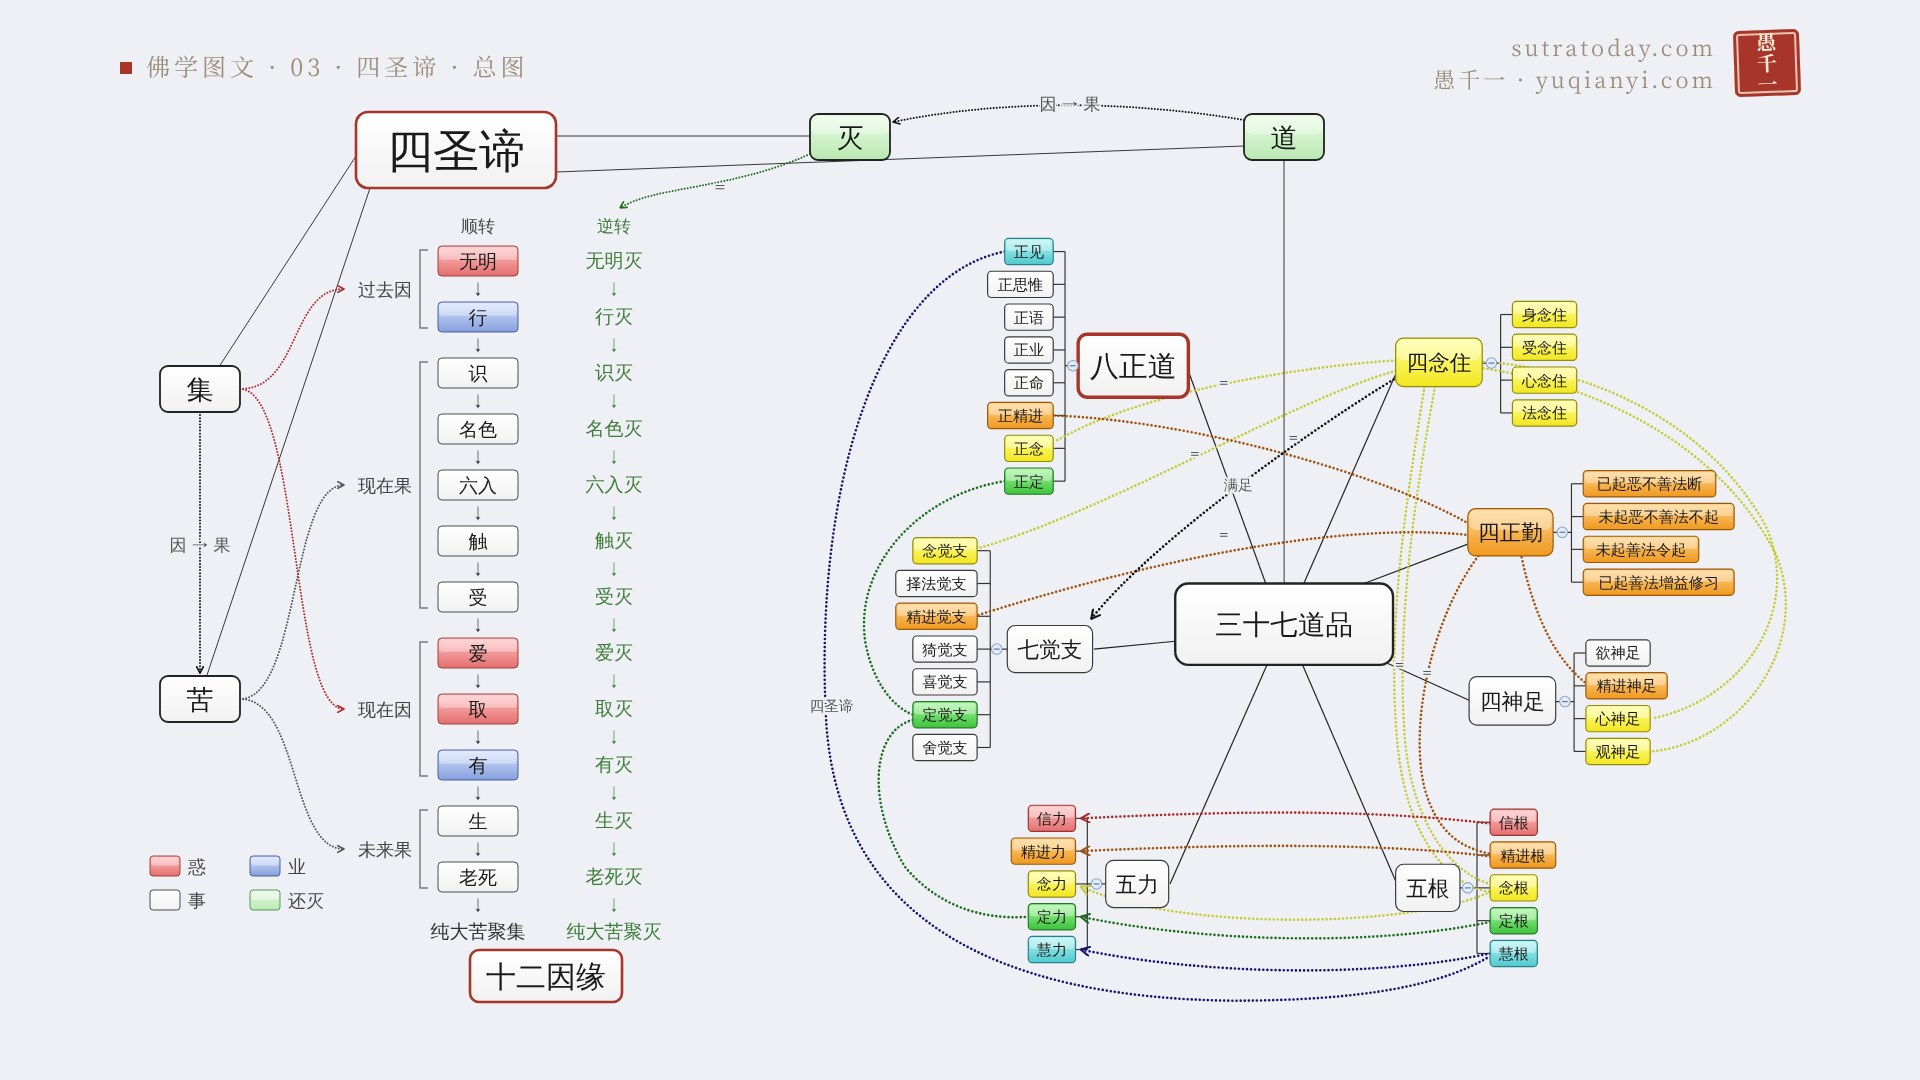
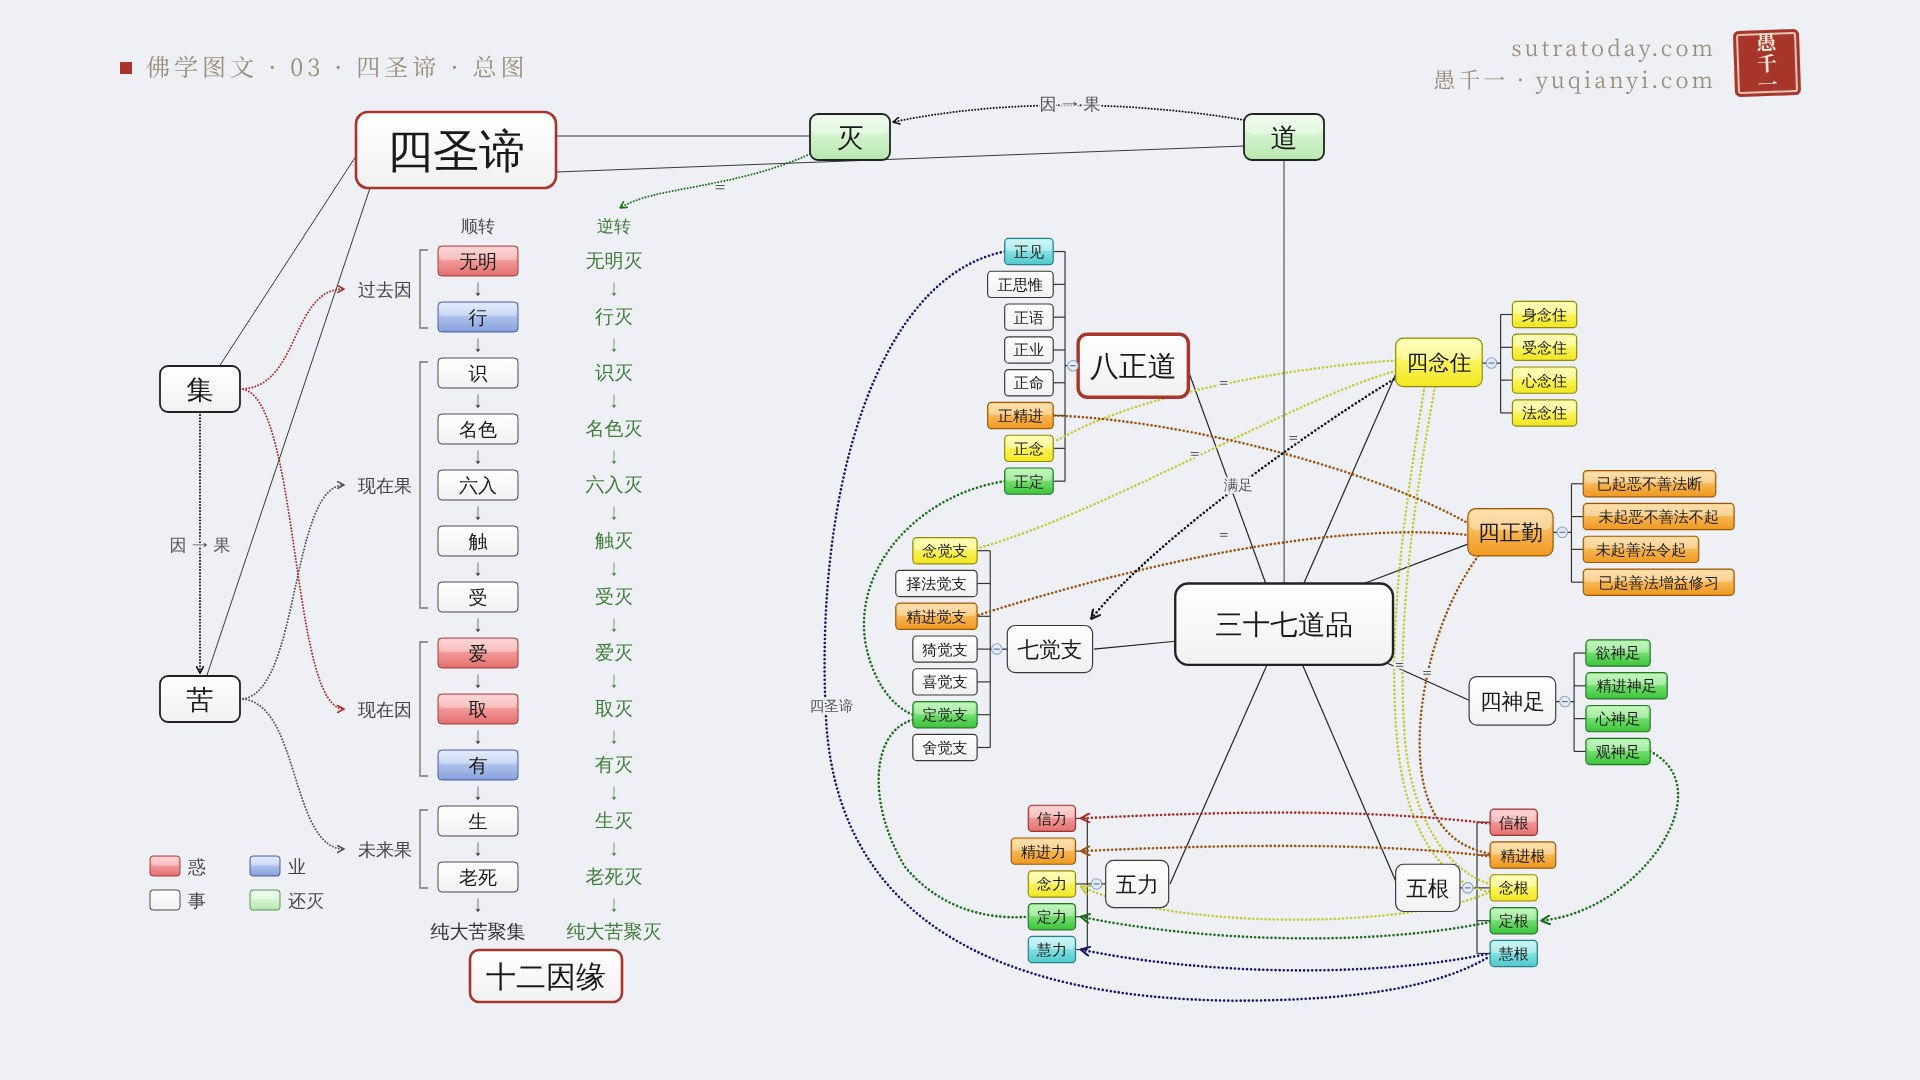
四圣谛总图：嵌入的三十七道品导图里四神足改为绿色（定），去掉与之矛盾的三条点线；单独的还原图不变
Claude-Session: https://claude.ai/code/session_01HUmfYdn8wkAM14ebYcQraf

diff --git a/videos/four-noble-truths-infographic/cards.html b/videos/four-noble-truths-infographic/cards.html
@@ -825,15 +825,12 @@
 <line x1="145" y1="324" x2="223" y2="324" stroke="#333" stroke-width="0.9"/>
 <path d="M454,104 C390,108 262,126 194,166" fill="none" stroke="#c4cb34" stroke-width="2" stroke-dasharray="0 3.1" stroke-linecap="round"/>
 <path d="M454,112 C380,132 232,220 136,247" fill="none" stroke="#c4cb34" stroke-width="2" stroke-dasharray="0 3.1" stroke-linecap="round"/>
-<path d="M521,105 C600,110 692,150 736,230 C764,292 722,362 649,377" fill="none" stroke="#c4cb34" stroke-width="2" stroke-dasharray="0 3.1" stroke-linecap="round"/>
-<path d="M521,110 C612,124 702,170 744,252 C772,322 716,396 649,402" fill="none" stroke="#c4cb34" stroke-width="2" stroke-dasharray="0 3.1" stroke-linecap="round"/>
 <path d="M484,124 C470,200 454,300 461,392 C467,462 500,496 526,503" fill="none" stroke="#c4cb34" stroke-width="2" stroke-dasharray="0 3.1" stroke-linecap="round"/>
 <path d="M476,124 C462,212 446,312 456,402 C464,472 498,506 526,509" fill="none" stroke="#c4cb34" stroke-width="2" stroke-dasharray="0 3.1" stroke-linecap="round"/>
 <path d="M526,509 C470,536 290,540 214,505" fill="none" stroke="#c4cb34" stroke-width="2" stroke-dasharray="0 3.1" stroke-linecap="round" marker-end="url(#ovay)"/>
 <path d="M194,146 C300,150 442,190 509,228" fill="none" stroke="#a2520e" stroke-width="2" stroke-dasharray="0 3.1" stroke-linecap="round"/>
 <path d="M136,298 C250,262 402,226 509,237" fill="none" stroke="#a2520e" stroke-width="2" stroke-dasharray="0 3.1" stroke-linecap="round"/>
 <path d="M517,253 C482,300 464,380 476,430 C486,466 506,476 526,480" fill="none" stroke="#a2520e" stroke-width="2" stroke-dasharray="0 3.1" stroke-linecap="round"/>
-<path d="M550,254 C560,300 576,332 599,350" fill="none" stroke="#a2520e" stroke-width="2" stroke-dasharray="0 3.1" stroke-linecap="round"/>
 <path d="M526,482 C430,470 300,474 214,478" fill="none" stroke="#a2520e" stroke-width="2" stroke-dasharray="0 3.1" stroke-linecap="round" marker-end="url(#ovab)"/>
 <path d="M526,457 C420,444 300,449 214,453" fill="none" stroke="#b02a2a" stroke-width="2" stroke-dasharray="0 3.1" stroke-linecap="round" marker-end="url(#ovar)"/>
 <path d="M156,196 C92,206 40,260 50,320 C58,360 80,372 86,374" fill="none" stroke="#1d6e1d" stroke-width="2" stroke-dasharray="0 3.1" stroke-linecap="round"/>
@@ -842,6 +839,7 @@
 <path d="M156,21 C60,40 10,200 20,380 C30,530 150,590 330,592 C430,592 490,580 526,558" fill="none" stroke="#16166e" stroke-width="2" stroke-dasharray="0 3.1" stroke-linecap="round"/>
 <path d="M526,556 C430,576 300,571 214,553" fill="none" stroke="#16166e" stroke-width="2" stroke-dasharray="0 3.1" stroke-linecap="round" marker-end="url(#ovan)"/>
 <path d="M455,117 C400,150 272,238 222,301" fill="none" stroke="#111111" stroke-width="2" stroke-dasharray="0 3.1" stroke-linecap="round" marker-end="url(#ovak)"/>
+<path d="M648,402 C704,430 640,524 565,531" fill="none" stroke="#1d6e1d" stroke-width="2" stroke-dasharray="0 3.1" stroke-linecap="round" marker-end="url(#ovag)"/>
 <rect x="156" y="11" width="37" height="20" rx="3" fill="url(#ovgc)" stroke="#2b7f86" stroke-width="0.9"/><rect x="157.2" y="12.2" width="34.6" height="8.4" rx="2" fill="#fff" opacity="0.35"/><text x="174.5" y="25.14" font-size="11.5" text-anchor="middle">正见</text>
 <rect x="143" y="36" width="50" height="20" rx="3" fill="url(#ovgw)" stroke="#3a3a3a" stroke-width="0.9"/><rect x="144.2" y="37.2" width="47.6" height="8.4" rx="2" fill="#fff" opacity="0"/><text x="168.0" y="50.14" font-size="11.5" text-anchor="middle">正思惟</text>
 <rect x="156" y="61" width="37" height="20" rx="3" fill="url(#ovgw)" stroke="#3a3a3a" stroke-width="0.9"/><rect x="157.2" y="62.2" width="34.6" height="8.4" rx="2" fill="#fff" opacity="0"/><text x="174.5" y="75.14" font-size="11.5" text-anchor="middle">正语</text>
@@ -858,10 +856,10 @@
 <rect x="597" y="213" width="115" height="20" rx="3" fill="url(#ovgo)" stroke="#9a5a0c" stroke-width="0.9"/><rect x="598.2" y="214.2" width="112.6" height="8.4" rx="2" fill="#fff" opacity="0.35"/><text x="654.5" y="227.14" font-size="11.5" text-anchor="middle">未起恶不善法不起</text>
 <rect x="597" y="238" width="88" height="20" rx="3" fill="url(#ovgo)" stroke="#9a5a0c" stroke-width="0.9"/><rect x="598.2" y="239.2" width="85.6" height="8.4" rx="2" fill="#fff" opacity="0.35"/><text x="641.0" y="252.14" font-size="11.5" text-anchor="middle">未起善法令起</text>
 <rect x="597" y="263" width="115" height="20" rx="3" fill="url(#ovgo)" stroke="#9a5a0c" stroke-width="0.9"/><rect x="598.2" y="264.2" width="112.6" height="8.4" rx="2" fill="#fff" opacity="0.35"/><text x="654.5" y="277.14" font-size="11.5" text-anchor="middle">已起善法增益修习</text>
-<rect x="599" y="317" width="49" height="20" rx="3" fill="url(#ovgw)" stroke="#3a3a3a" stroke-width="0.9"/><rect x="600.2" y="318.2" width="46.6" height="8.4" rx="2" fill="#fff" opacity="0"/><text x="623.5" y="331.14" font-size="11.5" text-anchor="middle">欲神足</text>
-<rect x="599" y="342" width="62" height="20" rx="3" fill="url(#ovgo)" stroke="#9a5a0c" stroke-width="0.9"/><rect x="600.2" y="343.2" width="59.6" height="8.4" rx="2" fill="#fff" opacity="0.35"/><text x="630.0" y="356.14" font-size="11.5" text-anchor="middle">精进神足</text>
-<rect x="599" y="367" width="49" height="20" rx="3" fill="url(#ovgy)" stroke="#8f8a12" stroke-width="0.9"/><rect x="600.2" y="368.2" width="46.6" height="8.4" rx="2" fill="#fff" opacity="0.35"/><text x="623.5" y="381.14" font-size="11.5" text-anchor="middle">心神足</text>
-<rect x="599" y="392" width="49" height="20" rx="3" fill="url(#ovgy)" stroke="#8f8a12" stroke-width="0.9"/><rect x="600.2" y="393.2" width="46.6" height="8.4" rx="2" fill="#fff" opacity="0.35"/><text x="623.5" y="406.14" font-size="11.5" text-anchor="middle">观神足</text>
+<rect x="599" y="317" width="49" height="20" rx="3" fill="url(#ovgg)" stroke="#24772a" stroke-width="0.9"/><rect x="600.2" y="318.2" width="46.6" height="8.4" rx="2" fill="#fff" opacity="0.35"/><text x="623.5" y="331.14" font-size="11.5" text-anchor="middle">欲神足</text>
+<rect x="599" y="342" width="62" height="20" rx="3" fill="url(#ovgg)" stroke="#24772a" stroke-width="0.9"/><rect x="600.2" y="343.2" width="59.6" height="8.4" rx="2" fill="#fff" opacity="0.35"/><text x="630.0" y="356.14" font-size="11.5" text-anchor="middle">精进神足</text>
+<rect x="599" y="367" width="49" height="20" rx="3" fill="url(#ovgg)" stroke="#24772a" stroke-width="0.9"/><rect x="600.2" y="368.2" width="46.6" height="8.4" rx="2" fill="#fff" opacity="0.35"/><text x="623.5" y="381.14" font-size="11.5" text-anchor="middle">心神足</text>
+<rect x="599" y="392" width="49" height="20" rx="3" fill="url(#ovgg)" stroke="#24772a" stroke-width="0.9"/><rect x="600.2" y="393.2" width="46.6" height="8.4" rx="2" fill="#fff" opacity="0.35"/><text x="623.5" y="406.14" font-size="11.5" text-anchor="middle">观神足</text>
 <rect x="526" y="446" width="36" height="20" rx="3" fill="url(#ovgr)" stroke="#9a3434" stroke-width="0.9"/><rect x="527.2" y="447.2" width="33.6" height="8.4" rx="2" fill="#fff" opacity="0.35"/><text x="544.0" y="460.14" font-size="11.5" text-anchor="middle">信根</text>
 <rect x="526" y="471" width="50" height="20" rx="3" fill="url(#ovgo)" stroke="#9a5a0c" stroke-width="0.9"/><rect x="527.2" y="472.2" width="47.6" height="8.4" rx="2" fill="#fff" opacity="0.35"/><text x="551.0" y="485.14" font-size="11.5" text-anchor="middle">精进根</text>
 <rect x="526" y="496" width="36" height="20" rx="3" fill="url(#ovgy)" stroke="#8f8a12" stroke-width="0.9"/><rect x="527.2" y="497.2" width="33.6" height="8.4" rx="2" fill="#fff" opacity="0.35"/><text x="544.0" y="510.14" font-size="11.5" text-anchor="middle">念根</text>

diff --git a/videos/four-noble-truths-infographic/scripts/mindmap37.py b/videos/four-noble-truths-infographic/scripts/mindmap37.py
@@ -83,6 +83,12 @@ def body(simplified=False, emph=False):
     """emph=True：嵌入总图时用，八正道按第一层强调、三十七道品按第二层强调；单独那张原图不强调。"""
     tr = SIMP if simplified else S2T
     o = []
+    # 嵌入总图时，四神足按《杂阿含》第 179 经、《俱舍论》「以定为体」统一作定（绿色）
+    SHENZU = ('欲神足', '精進神足', '心神足', '觀神足')
+    leaves = [(a, b, c, d, t, 'g' if emph and t in SHENZU else col) for a, b, c, d, t, col in LEAF]
+    dots = [x for x in DOTS if not (emph and x[1].startswith(('M521,105', 'M521,110', 'M550,254')))]
+    if emph:
+        dots.append(('g', 'M648,402 C704,430 640,524 565,531', 1, []))
     # 实线：中心到各组
     for (a, b) in SOLID:
         if emph and a == (282, 110): a = (296, 112)
@@ -90,18 +96,18 @@ def body(simplified=False, emph=False):
     # 树形括号
     for name, (x0,y0,x1,y1), col, (mx,my), bx, (ya,yb), side, (edge,) in GROUPS:
         o.append(f'<line x1="{bx}" y1="{ya}" x2="{bx}" y2="{yb}" stroke="#333" stroke-width="0.9"/>')
-        for lx0, ly0, lx1, ly1, *_ in LEAF:
+        for lx0, ly0, lx1, ly1, *_ in leaves:
             cy = (ly0 + ly1) / 2
             if ya - 1 <= cy <= yb + 1 and ((side == 'L' and lx1 == edge) or (side == 'R' and lx0 == edge)):
                 o.append(f'<line x1="{bx}" y1="{cy}" x2="{edge}" y2="{cy}" stroke="#333" stroke-width="0.9"/>')
         gx = x1 if side == 'L' else x0
         o.append(f'<line x1="{bx}" y1="{my}" x2="{gx}" y2="{my}" stroke="#333" stroke-width="0.9"/>')
     # 虚线（点线）关系
-    for col, d, arrow, labels in DOTS:
+    for col, d, arrow, labels in dots:
         mk = f' marker-end="url(#{xmind.PFX}a{col})"' if arrow else ''
         o.append(f'<path d="{d}" fill="none" stroke="{C[col]}" stroke-width="2" stroke-dasharray="0 3.1" stroke-linecap="round"{mk}/>')
     # 节点
-    for x0, y0, x1, y1, txt, col in LEAF:
+    for x0, y0, x1, y1, txt, col in leaves:
         o.append(box(x0, y0, x1, y1, col, 3, 11.5, txt))
     for name, (x0,y0,x1,y1), col, (mx,my), *_ in GROUPS:
         if emph and name == '八正道':
@@ -111,7 +117,7 @@ def body(simplified=False, emph=False):
         o.append(toggle(mx, my))
     o.append(box(*CENTER, 'w', 10, 21, '三十七道品', **TIER2) if emph else box(*CENTER, 'w', 10, 25, '三十七道品'))
     # 标签（放在节点之后、带底色，避免被线穿过）
-    for col, d, arrow, labels in DOTS:
+    for col, d, arrow, labels in dots:
         for t, x, y in labels:
             o.append(f'<text x="{x}" y="{y}" font-size="{11 if t!="=" else 11}" text-anchor="middle" fill="#555" class="lb">{t}</text>')
     o.append('<text x="24" y="371" font-size="11" text-anchor="middle" fill="#555" class="lb">四聖諦</text>')

diff --git a/videos/four-noble-truths-infographic/sources.md b/videos/four-noble-truths-infographic/sources.md
@@ -78,3 +78,4 @@
 - 道下面嵌入三十七道品导图（简体）。八正道只在导图里出现一次。
 - 层级：四圣谛、十二因缘、八正道为第一层（朱红粗框、最大字）；苦集灭道、三十七道品为第二层（深色粗框）。八正道的强调只在总图里（`body(emph=True)`），单独的三十七道品还原图不变。十二因缘标题放在一列下方。
 - 「八正道展开为三十七道品」的说法已改为「八正道是道的主干，三十七道品更全面；八正道修满，其余六组也随之修满」。依据：《杂阿含》第 305 经说的是修满八圣道后其余六组「修习满足」，没有说其余六组都摄在八正道内；《俱舍论》卷 25「经说觉分有三十七」「三十七法顺趣菩提，是故皆名菩提分法」。
+- 总图里嵌入的三十七道品导图（`mindmap37.body(emph=True)`）：四神足四项改为绿色（定），依《杂阿含》第 179 经与《俱舍论》「四神足……以定为体」，与第 8 张卡一致；原图里四正勤→精进神足、四念住→心神足 / 观神足三条点线去掉，另加一条观神足→定根的绿色点线。单独的还原图（第 9 张）保持原图配色不变。
